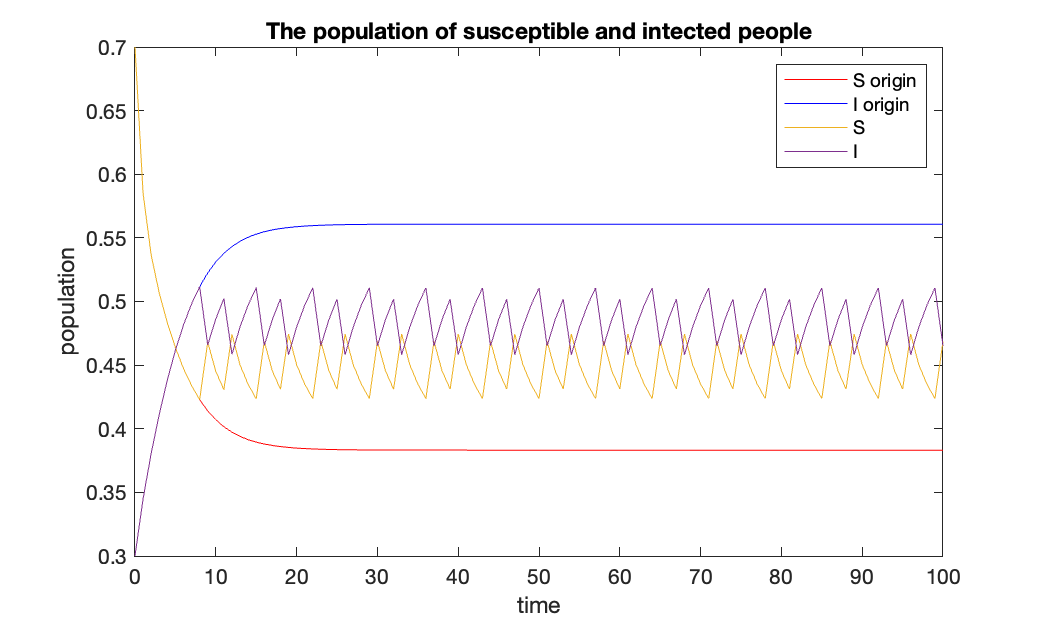
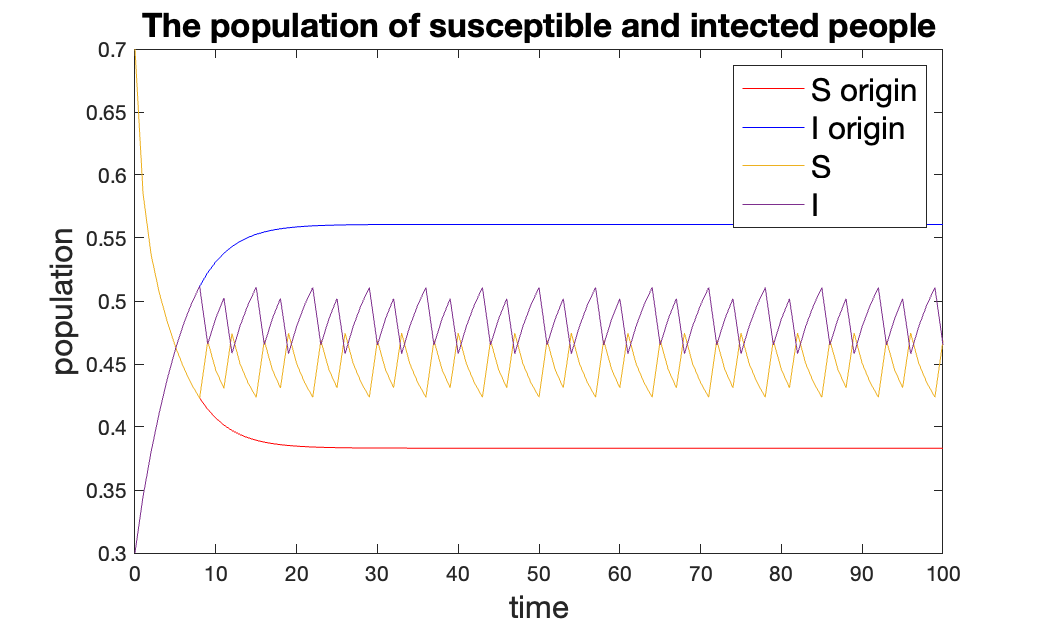
final

diff --git a/fix/fixIc1.m b/fix/fixIc1.m
@@ -24,7 +24,7 @@ beta_x = [];
 % 0.35; Ic1 = 0.4.
 
 Ic1 = 0.35;
-delay = 5;
+delay = 0;
 for Ic2 = 0.01:0.01:0.56
     [t1,Eulerp,withoutpolicy,betas] = twothreshold2(tspan,p0,N, [Ic1,Ic2],beta0,eplisons,delay);
     [peaks_I, peakIdx_I] = findpeaks(Eulerp(2,:));
@@ -123,10 +123,10 @@ yline(Ic1,'r','Linewidth',2);
 % text(Ic1+0.02,Ic1+0.02,'Ic2')
 % text((0.56-Ic1)/2+Ic1,Ic1+0.005,'Ic1')
 % text ic1=0.6
-text(0.5,0.5,'Ic2')
+text(0.5,0.45,'Ic2')
 text(0.5,Ic1-0.01,'Ic1')
-xlabel('Ic2')
-ylabel('Infected group proportion (I) values')
+xlabel('Ic2','FontSize',15)
+ylabel('Infected group proportion (I) values','FontSize',15)
 
-title(name)
-set(gcf,'position',[100,50,500,200]);
+title(name,FontSize=15)
+set(gcf,'position',[100,50,600,250]);

diff --git a/Different ICs/delays2.m b/Different ICs/delays2.m
@@ -111,11 +111,11 @@ for delay = 0:1:15
 end
 
 figure;
-name = "Ic1=" + num2str(Ics(1,1))+",Ic2="+ num2str(Ic2);
+name = "Ic1=" + num2str(Ic1)+",Ic2="+ num2str(Ic2);
 sgtitle(name);
 subplot(1,2,1)
 plot(Ic2s, Ivalues_I,'*');
-xlabel('Ic2 = S + I')
+xlabel('time delay')
 ylabel('Infected group proportion (I) values')
 title('Peaks and Nadirs of (I) values')
 yline(Ic1,'r','Linewidth',2,'Label','Ic1');
@@ -126,7 +126,7 @@ scatter(Ic2SI, SI_values)
 hold on;
 yline(Ic2,'r','Linewidth',2,'Label','Ic2');
 hold off;
-xlabel('Ic2 = S + I')
+xlabel('time delay')
 ylabel('S+I values')
 yline(0.943,'LineWidth',2,'Label','Steady State without policy')
 title('Peaks and Nadirs of (S+I) values')

diff --git a/Different ICs/delays.m b/Different ICs/delays.m
@@ -111,11 +111,11 @@ for delay = 0:1:15
 end
 
 figure;
-name = "Ic1=" + num2str(Ics(1,1))+",Ic2="+ num2str(Ic2);
+name = "Ic1=" + num2str(Ic1)+",Ic2="+ num2str(Ic2);
 sgtitle(name);
 subplot(1,2,1)
 plot(Ic2s, Ivalues_I,'*');
-xlabel('Ic2 = S  I')
+xlabel('time delay')
 ylabel('Infected group proportion (I) values')
 title('Peaks and Nadirs of (I) values')
 yline(Ic1,'r','Linewidth',2,'Label','Ic1');
@@ -127,7 +127,7 @@ hold on;
 yline(Ic2,'r','Linewidth',2,'Label','Ic2');
 
 hold off;
-xlabel('Ic2 = S - I')
+xlabel('time delay')
 ylabel('S-I values')
 title('Peaks and Nadirs of (S-I) values')
 yline(-0.18,'LineWidth',2,'Label','Steady State without policy')

diff --git a/fix/fixIc2.m b/fix/fixIc2.m
@@ -20,7 +20,7 @@ beta_value = [];
 beta_x = [];
 
 Ic2 = 0.4;
-delay = 0;
+delay = 5;
 for Ic1 = 0.1:0.01:0.56
     [t1,Eulerp,withoutpolicy,betas] = twothreshold2(tspan,p0,N, [Ic1,Ic2],beta0,eplisons,delay);
     [peaks_I, peakIdx_I] = findpeaks(Eulerp(2,:));
@@ -108,8 +108,8 @@ else
 end
 text(0.3,Ic2-0.02,'Ic2')
 text(0.3,0.256,'Ic1')
-xlabel('Ic1')
-ylabel('Infected group proportion (I) values')
+xlabel('Ic1',FontSize=15)
+ylabel('Infected group proportion (I) values',FontSize=15)
 yline(Ic2,'r','LineWidth',2);
-title(name)
-set(gcf,'position',[100,50,500,200]);
+title(name,FontSize=15)
+set(gcf,'position',[100,50,600,250]);

diff --git a/Basic Model/plot_oscillation.m b/Basic Model/plot_oscillation.m
@@ -27,12 +27,14 @@ hold on;
 plot(t1, Eulerp(1,:))
 hold on;
 plot(t1, Eulerp(2,:))
-legend('S origin','I origin','S','I');
-xlabel('time')
-ylabel('population')
+legend('S origin','I origin','S','I','FontSize',15);
+xlabel('time',FontSize=15)
+ylabel('population',FontSize=15)
 set(gcf,'position',[100,50,500,300])
 
-title('The population of susceptible and intected people')
+
+
+title('The population of susceptible and intected people','FontSize',16)
 saveas(gcf,'oscillation','png')
 susceptible = Eulerp(1,80:100);
 infected = Eulerp(2,80:100);

diff --git a/Basic Model/plot_steady.m b/Basic Model/plot_steady.m
@@ -31,9 +31,9 @@ plot(t1, withoutpolicy(1,:),'r')
 hold on;
 plot(t1, withoutpolicy(2,:),'b')
 set(gcf,'position',[100,50,500,300])
-legend('S','I');
-xlabel('time')
-ylabel('population')
-title('The natural situation, without policy')
+legend('S','I','FontSize',15);
+xlabel('time','FontSize',15)
+ylabel('population','FontSize',15)
+title('The natural situation, without policy','FontSize',16)
 
 saveas(gcf,'steady','png')

diff --git a/fix/twothreshold2.m b/fix/twothreshold2.m
@@ -1,7 +1,7 @@
 % This combine SIV ode function and Euler together 
 % change the beta 
 % Ic1和Ic2无大小关系
-function [t,r,withoutpolicy,betachange] = twothreshold4(tspan,yI,N, Ics,beta0,eplisons,delay)
+function [t,r,withoutpolicy,betachange] = twothreshold2(tspan,yI,N, Ics,beta0,eplisons,delay)
 
 % S:x(1) I:x(2) 
 

diff --git a/Different ICs/SminsI.m b/Different ICs/SminsI.m
@@ -31,7 +31,7 @@ eplisons = [eplison1; eplison2];
 i = 1;
 
 Ic1 = 0.37;
-delay = 0;
+delay = 5;
 for Ic2 = 0.1:0.01:0.25
     [t1,Eulerp,withoutpolicy,betas,days] = twothreshold3(tspan,p0,N, [Ic1,Ic2],beta0,eplisons,delay);
     [peaks_I, peakIdx_I] = findpeaks(Eulerp(2,:));
